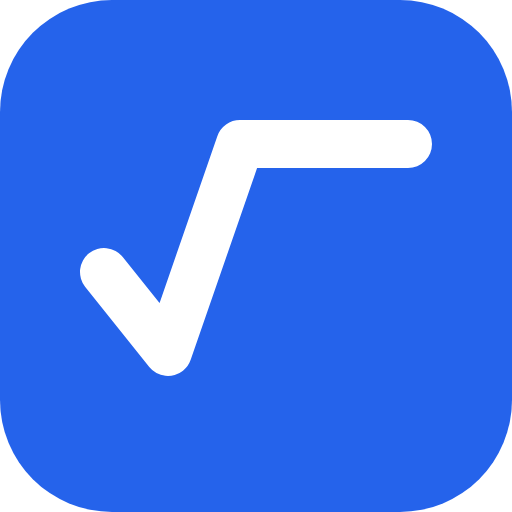
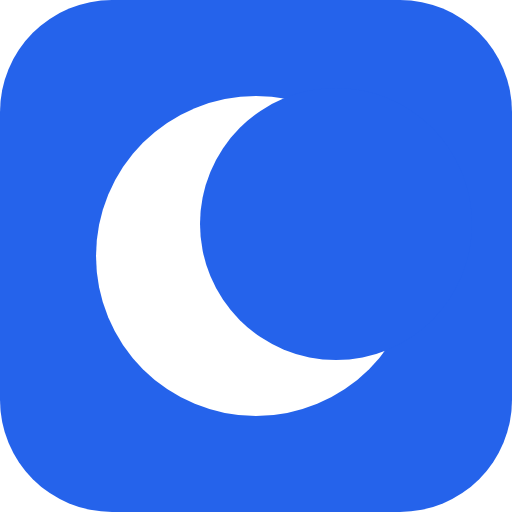
#0066 アイコンの図柄を三日月にする
名前がThothGlyphになったのにアイコンは平方根記号のままで、由来とつながって
いなかった。トトは月の神なので三日月にする。

三日月は円弧のパスではなく円を2つ重ねて描く。パスだとlarge-arcとsweepで
膨らむ向きが決まって読みにくく、stroke-widthを持つぶん縮小で太さが飛ぶ。

0019の基準は満たしたまま: 16pxの白インク量14.5%（基準6〜20%）、512pxとの
差0.3pt（基準1.5pt以内）、コントラスト比5.17:1（色を変えていないので同じ）。
icon区分14件は判定を1行も変えずに通り、全区分393件も通る。

Changed region(s): [[0.1562, 0.1875, 0.8438, 0.8125]]

diff --git a/docs/specs/0066-moon-icon.md b/docs/specs/0066-moon-icon.md
@@ -1,0 +1,179 @@
+# 0066: アイコンの図柄を三日月にする
+
+- 対応issue: [0066](../issues/0066-moon-icon.md)
+- 状態: implemented
+- 作成日: 2026-09-21
+
+## 目的
+
+アイコンが平方根記号のままで、`ThothGlyph` という名前とつながっていない。
+**トトは月の神**で、満ち欠けを数えて暦を刻む。図柄を三日月にすると、
+名前の由来がアイコンにも出る。
+
+利用者から見て変わるのは、タブ・ツールバー・インストール時のアイコンの絵柄だけ。
+色も置き場所も変わらない。
+
+## 仕様
+
+### 1. 図柄
+
+**円を2つ重ねて描く。** 白い円の上に地色の円を置き、はみ出した部分が
+三日月になる。円弧のパス（`A` コマンド）は使わない（large-arc と sweep の
+組み合わせで膨らむ向きが決まり、狙いと違う形になりやすい。円の重ねなら
+確実で、`stroke-width` を持たないぶん縮小でも太さが飛ばない）。
+
+`public/favicon.svg` の中身:
+
+```svg
+<svg xmlns="http://www.w3.org/2000/svg" viewBox="0 0 32 32" width="32" height="32" role="img" aria-label="ThothGlyph">
+  <title>ThothGlyph</title>
+  <!--
+    三日月。トトは月の神で、満ち欠けを数えて暦を刻む。
+    円弧のパスではなく円を2つ重ねて描く。パスだと large-arc と sweep の
+    組み合わせで膨らむ向きが変わり、stroke-width を持つと縮小で太さが飛ぶ。
+    <text> を使わないのは、見る側のフォントに依存して字形が変わるため。
+  -->
+  <rect width="32" height="32" rx="7" fill="#2563eb"/>
+  <circle cx="16" cy="16" r="10" fill="#ffffff"/>
+  <circle cx="21" cy="14" r="8.5" fill="#2563eb"/>
+</svg>
+```
+
+採るのは **E3（太い）**。4通りを実測していずれも基準を満たしたが、
+16pxで描いて見たときE3が最も明瞭で、上限20%まで5.5ptの余裕がある
+（[issue](../issues/0066-moon-icon.md#現状の実測2026-09-21)の表）。
+
+| 値 | 現行（根号） | 三日月E3 | 基準 |
+|---|---|---|---|
+| 16pxの白インク量 | 9.8% | **14.5%** | 6〜20% |
+| 512pxの白インク量 | 9.9% | **14.8%** | — |
+| 16pxと512pxの差 | 0.1pt | **0.3pt** | 1.5pt以内 |
+| コントラスト比 | 5.17:1 | **5.17:1**（色を変えないので同じ） | 4.5:1以上 |
+
+`rect` の `rx="7"` は残す。`make-icons.mjs` が `apple-touch-icon.png` を
+書き出すとき `rx` を正規表現で落とすので（iOSが自分で角を丸めるため）、
+**`rx` を持つのは背景の `rect` だけ**という前提を崩さない。円は `r` 属性で
+`rx` ではないので、この置換に巻き込まれない。
+
+### 2. PNGの書き出し
+
+`node scripts/make-icons.mjs` で4件を再生成し、**コミットする**。
+手で作らない（SVGを直したときにPNGだけ古くなるため）。
+
+| ファイル | 大きさ | 角丸 |
+|---|---|---|
+| `public/favicon-32.png` | 32 | あり |
+| `public/apple-touch-icon.png` | 180 | **なし**（iOSが自分で丸める） |
+| `public/icon-192.png` | 192 | あり |
+| `public/icon-512.png` | 512 | あり |
+
+### 3. 変えないもの
+
+- **地の色 `#2563eb` と記号の色 `#ffffff`。** 色を動かすとコントラスト比の
+  基準を引き直すことになる。
+- **ツールバーへの掲出。** `favicon.svg` を20pxで参照する形
+  （[0019](0019-app-icon.md) の節7）のまま。パスを書き写さない。
+- `manifest.webmanifest`、`index.html` の `<link>`。ファイル名が変わらないため。
+
+### 対象ファイル
+
+| ファイル | すること |
+|---|---|
+| `public/favicon.svg` | 図柄を三日月に |
+| `public/favicon-32.png` / `apple-touch-icon.png` / `icon-192.png` / `icon-512.png` | `make-icons.mjs` で再生成 |
+| `scripts/verify-ui.mjs` | **変更不要だった**（白インク量は範囲判定、コントラスト比は色から計算しているため） |
+| `docs/screenshots/*.png` | ツールバーにアイコンが写るので撮り直す（**3枚とも変わった**） |
+| `docs/functional-spec.md` | 「アイコン」の節。図柄と実測値 |
+| `docs/requirements.md` | 非機能要求 N8 の基準と現状 |
+
+## 未確認の前提
+
+- **`icon` 区分14件は、図柄を変えても判定の書き換えなしに通る**と考えている。
+  白インク量は範囲判定（6〜20%）、コントラスト比は色から計算しているため。
+  ただし確かめていない。落ちたら仕様に戻る。
+- **`make-icons.mjs` の `rx` 落としが円に影響しない**と考えている
+  （円は `r` 属性）。コードは読んだが、実際に流してはいない。
+- 16pxでの見え方は、SVGをブラウザで16pxに描いて目で見た。
+  **タブに並んだときどう見えるかは0019と同じく機械では見られない。**
+
+## 受け入れ基準
+
+**実機検証（`node scripts/verify-ui.mjs icon`）**
+
+- [x] 16pxでの白インク量が6〜20%に収まる（期待値14.5%前後）
+- [x] 16pxと512pxの白インク量の差が1.5ポイント以内（期待値0.3pt前後）
+- [x] 記号と地のコントラスト比が4.5:1以上（5.17:1のまま）
+- [x] `favicon.svg` が `<text>` 要素と外部参照を持たない
+- [x] PNG4件が32/180/192/512ちょうどで書き出されている
+- [x] `apple-touch-icon.png` の四隅が不透明
+- [x] ツールバーに20pxでアイコンが出て、`favicon.svg` を参照している
+- [x] `icon` 区分14件すべてがOK
+
+**回帰**
+
+- [x] `node scripts/verify-ui.mjs` が全393件OK
+
+**残るもので判定する**
+
+- [x] `node scripts/make-icons.mjs` を流し直すと、コミット済みのPNGと同じ内容が
+      再生成される（`git status` がクリーンのまま）
+- [x] `node scripts/make-screenshots.mjs` で撮り直した3枚のツールバーに
+      三日月が写っている
+- [x] 512pxと32pxのPNGを実際に見て、三日月と判別できる
+
+**目視**
+
+- [ ] 手元のブラウザでタブに三日月が出る（faviconのタブ表示はDOMの外なので、
+      [0019](0019-app-icon.md) と同じくここだけ目で見ると決める。
+      **Chromeのfaviconキャッシュは `Cache-Control` もハードリロードも無視する**
+      ので、古いアイコンが出たらまずキャッシュを疑う）
+
+**前提**
+
+- [x] `npm run build` と `npm run lint` が通る
+
+## 実装で分かったこと
+
+**受け入れ基準に「16pxのPNG」と書いていたが、そんなPNGは書き出していない**
+（32 / 180 / 192 / 512 の4件）。0019と同じ「512pxと32px」に直した。16pxでの
+見え方は、白インク量14.5%という数値と、SVGを16pxで描いて目で見たことで
+確かめている。**書き出すファイルの一覧は仕様にも書いてあったのに、基準を
+書くときに見ていなかった。**
+
+**未確認の前提は2つとも確認できた。** `icon` 区分14件は判定を1行も変えずに
+通った（白インク量は範囲判定、コントラスト比は色から計算している）。
+`make-icons.mjs` の `rx` 落としも円に影響しなかった（円は `r` 属性）。
+
+**スクリーンショットは3枚とも変わった。** 仕様では幅1440pxの2枚が変わると
+思っていたが、幅360pxの1枚も変わる。狭い画面では名前の文字が隠れて
+**アイコンだけが残る**ので、むしろアイコンの比重が大きい。
+
+**全区分の1回目で `scroll` の1件が落ちた**（「1行が折り返す文書でも上端から
+32px以内 — 見つからないpx」）。アイコンとは無関係な区分なので、
+`--repeat 3` で単独実行したところ**3回とも20/20**、全区分を流し直しても
+**393/393**だった。フレークと判断したが、**このチェックには `⏱` が付いていない**。
+付けるかどうかは0027（検証の再現性）の続きとして別issueにする。
+
+## 検討したが採らなかった案
+
+**円弧のパスで三日月を描く。** `<path d="M16 6 A10 10 0 1 0 16 26 A12.8 12.8 0 1 0 16 6 Z"/>`
+のように2つの円弧で囲む。ノードが1つで済むが、large-arc と sweep の
+4通りの組み合わせで膨らむ向きが変わり、狙いの形になるかを描いてみるまで
+判断できない。円の重ねは確実で、読む側にも分かりやすい。
+
+**月に加えてトキや刻み目を足す。** 由来をより多く表せるが、16pxでは
+要素が2つを超えると塊になる。0019が決めた「直線と太い塊だけで描く」
+という方針に従い、月だけにする。
+
+**地の色をエジプトらしい色（砂・青金石）に変える。** 名前に合わせるなら
+色も動かせるが、コントラスト比の基準を引き直すことになり、図柄の変更と
+混ざると何が原因で数値が動いたか分からなくなる。色を変えるなら別issue。
+
+**E4（大きめ、19.2%）を採る。** 16pxでいちばん堂々として見えるが、
+上限20%まで0.8ptしかない。将来の微調整で簡単に超える。
+
+## スコープ外
+
+- アプリ名の表示（[0065](0065-app-name.md) で済んでいる）。
+- 地の色の変更。
+- アイコンのダークモード対応（いまも持っていない）。

diff --git a/docs/issues/0066-moon-icon.md b/docs/issues/0066-moon-icon.md
@@ -1,0 +1,60 @@
+# 0066: アイコンの図柄が名前と結びついていない
+
+- 状態: closed
+- 起票日: 2026-09-21
+
+## 背景
+
+名前を [0065](0065-app-name.md) で `ThothGlyph` にしたが、アイコンは平方根記号の
+ままで、名前とのつながりがない。数式を扱う道具であることは指すが、
+**ThothGlyph が何にちなんだ名前かは指していない**。
+
+名前の由来にある素材（トキ・刻み目・月・根号）のうち、**月**を採る。
+トトは月の神で、満ち欠けを数えて暦を刻む。図として円を2つ重ねるだけなので
+線幅の概念がなく、縮小に強い。
+
+## 現状の実測（2026-09-21）
+
+[0019](0019-app-icon.md) の基準で、現行と月案4通りを実際に測った
+（`verify-ui.mjs` の `icon` 区分と同じ式。白インク量は、地と白のあいだの
+位置で重み付けした値）。
+
+| 図柄 | 16px | 512px | 差 | 判定 |
+|---|---|---|---|---|
+| 現行（根号） | 9.8% | 9.9% | 0.1pt | — |
+| 月E1 標準 | 13.5% | 14.1% | 0.6pt | 基準内 |
+| 月E2 細い | 13.3% | 13.5% | 0.2pt | 基準内 |
+| **月E3 太い** | **14.5%** | **14.8%** | **0.3pt** | **基準内** |
+| 月E4 大きめ | 19.2% | 19.2% | 0.0pt | 基準内（上限20%に余裕なし） |
+
+**4通りとも基準（16pxで6〜20%、16pxと512pxの差1.5pt以内）を満たす。**
+16pxで描いて目で見たところ、どれも三日月と判別できた。E3が最も明瞭で、
+上限まで5.5ptの余裕がある。
+
+地の色（`#2563eb`）と記号の色（`#ffffff`）は変えないので、
+コントラスト比は現行と同じ5.17:1のまま。
+
+## やりたいこと
+
+- `public/favicon.svg` の図柄が三日月になっている。
+- そこから書き出した4つのPNG（32/180/192/512）も三日月になっている。
+- [0019](0019-app-icon.md) が決めた4つの基準を**すべて満たしたまま**である
+  （白インク量、16pxと512pxの差、コントラスト比、文字要素と外部参照を持たないこと）。
+- `icon` 区分14件が通る。
+
+## やらないこと
+
+- **地の色は変えない。** `#2563eb` のまま。色まで動かすと、コントラスト比の
+  基準を引き直すことになる。
+- **ツールバーへの掲出の仕組みは変えない。** `favicon.svg` を参照する形
+  （[0019](0019-app-icon.md) の節7）をそのまま使う。
+- 根号の図柄を残す案、トキ・刻み目の案。月に決めた。
+
+## メモ
+
+- 三日月は**パスではなく円を2つ重ねて描く**（白い円の上に地色の円）。
+  円弧のパス（`A` コマンド）で三日月を描こうとすると、large-arc と sweep の
+  組み合わせで形が決まり、狙いと違う向きに膨らむ。重ねるほうが確実で、
+  `stroke-width` を持たないぶん縮小でも太さが飛ばない。
+- 図柄の候補と16pxでの見え方は、デザインのキャンバスに並べてある
+  （このリポジトリの外）。

diff --git a/docs/requirements.md b/docs/requirements.md
@@ -110,7 +110,7 @@ OSのテーマ設定に従い、暗い環境では暗い配色で表示する。
 | N5 | 狭い画面でも操作できる | 720px以下でツールバーのボタンが画面内に収まる（電話の実幅360pxを含む） | 実装済み（360pxで4ボタンすべて収まる。[0033](specs/0033-toolbar-overflow-phone.md)） |
 | N6 | 初期表示で配色がちらつかない | 最初に描かれる色が選択中のテーマと一致する | 実装済み（[0002](specs/0002-dark-mode.md)） |
 | N7 | 文言の翻訳が漏れない | 記号・公式・画面の文言の全件が日英の両方を持つ | 単体テストで全件を確認（[0031](specs/0031-english-ui.md)） |
-| N8 | タブで見分けられる | アイコンが16pxで潰れない（白インク量6〜20%、実効線幅1.25px以上） | 9.8% / 1.5px（[0019](specs/0019-app-icon.md)） |
+| N8 | タブで見分けられる | アイコンが16pxで潰れない（白インク量6〜20%、16pxと512pxの差1.5pt以内） | 14.5% / 差0.3pt（[0066](specs/0066-moon-icon.md)。三日月は線ではなく円の重ねなので、0019の実効線幅では測れない。胴の幅は6.5pxで16px換算3.3px） |
 | N9 | 狭い画面でもツールバーが収まる | 360pxで横スクロールが出ない（保存状態が出ているときも、日英の両方で） | 実装済み（480px以下で文言を短縮。[0033](specs/0033-toolbar-overflow-phone.md)） |
 | N10 | 開いてすぐ書き始められる | 細い回線（Fast 3G + CPU 4倍）でtextareaが出るまで1.5秒以内。初期JSは300 kB以下 | 1085 ms / 243.20 kB（[0024](specs/0024-bundle-size.md)） |
 | N11 | 狭い画面で編集領域が残る | 幅375px・高さ667pxでパレットが画面の30%以下。記号や公式を足しても高さが変わらない | 21〜27%（141〜177px、[0032](specs/0032-palette-height-narrow.md)） |

diff --git a/docs/functional-spec.md b/docs/functional-spec.md
@@ -399,14 +399,18 @@ x: -3..5
 
 ### アイコン
 
-タブ・ブックマーク・ホーム画面に出るアイコンは、**青地に白の平方根記号**。
+タブ・ブックマーク・ホーム画面に出るアイコンは、**青地に白の三日月**
+（トトは月の神。[0066](specs/0066-moon-icon.md)）。
 同じ記号を**ツールバーの左上**にも20pxで出す（タブのアイコンは他人から見た見分け、
 ツールバーのアイコンは開いている本人から見た見分けで、目的が違う）。
 `public/favicon.svg` 1枚が主で、PNG4件（32 / 180 / 192 / 512）は
 そこから `scripts/make-icons.mjs` で書き出している。
 
-- 16pxまで縮めても形が残る（白インク量9.8%、実効線幅1.5px。
-  [0019](specs/0019-app-icon.md) で実測）。
+- 三日月は**円を2つ重ねて**描く（白い円の上に地色の円）。円弧のパスだと
+  膨らむ向きが large-arc と sweep で決まって読みにくく、`stroke-width` を
+  持つぶん縮小で太さが飛ぶ。
+- 16pxまで縮めても形が残る（白インク量14.5%、512pxとの差0.3pt。
+  [0066](specs/0066-moon-icon.md) で実測。基準は [0019](specs/0019-app-icon.md)）。
 - 地を不透明にしてあるので、ライトでもダークでも見え方が変わらない。
 - `apple-touch-icon.png` だけ角丸なし（iOSが自分で角を丸める）。
 - ツールバーの記号は `favicon.svg` をそのまま参照している（パスを書き写していない）。

diff --git a/docs/issues/README.md b/docs/issues/README.md
@@ -75,6 +75,7 @@
 | [0063](0063-unsupported-commands.md) | KaTeXが対応していないコマンドが、エラーとして扱われないまま本文に混ざる | open | — |
 | [0064](0064-palette-beyond-highschool.md) | パレットの中身が高校数学の範囲しかなく、要求仕様R2を満たしていない | open | — |
 | [0065](0065-app-name.md) | アプリに名前がない | closed | [仕様](../specs/0065-app-name.md) |
+| [0066](0066-moon-icon.md) | アイコンの図柄が名前と結びついていない | closed | [仕様](../specs/0066-moon-icon.md) |
 
 ## 着手順の目安
 
